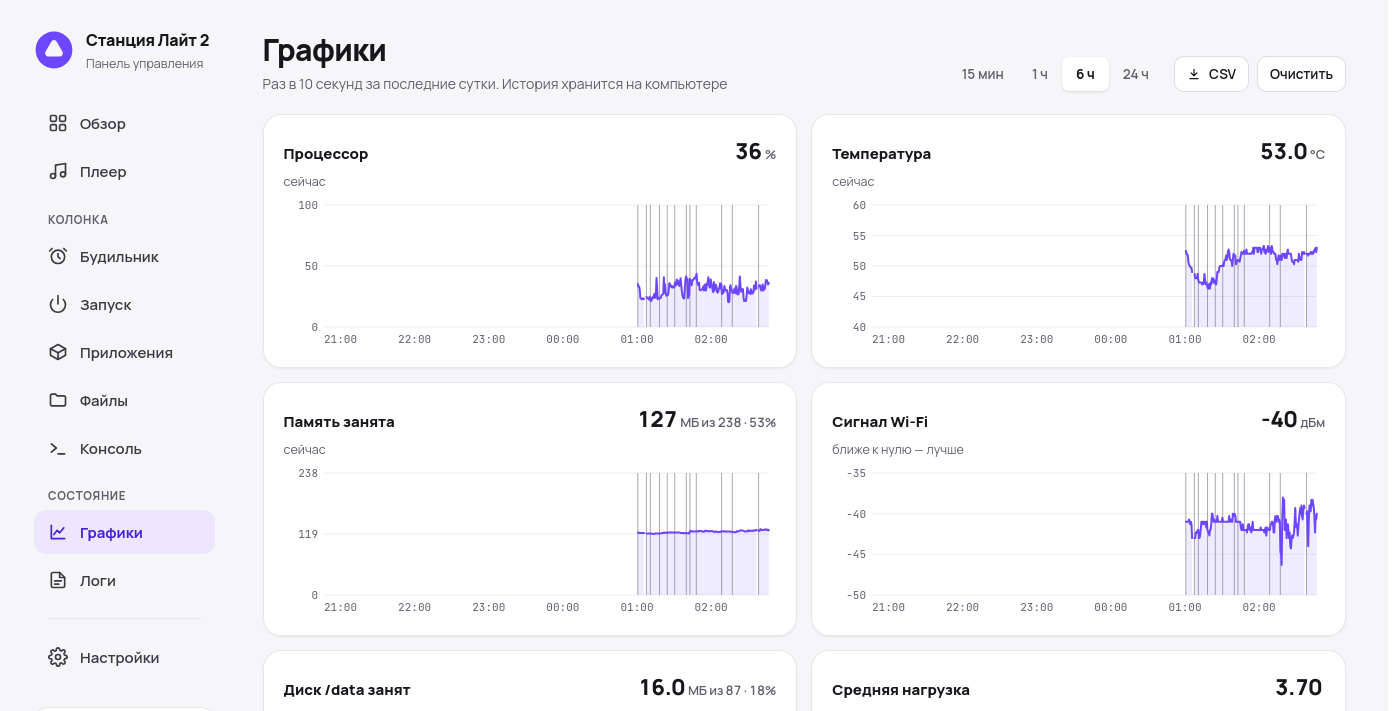
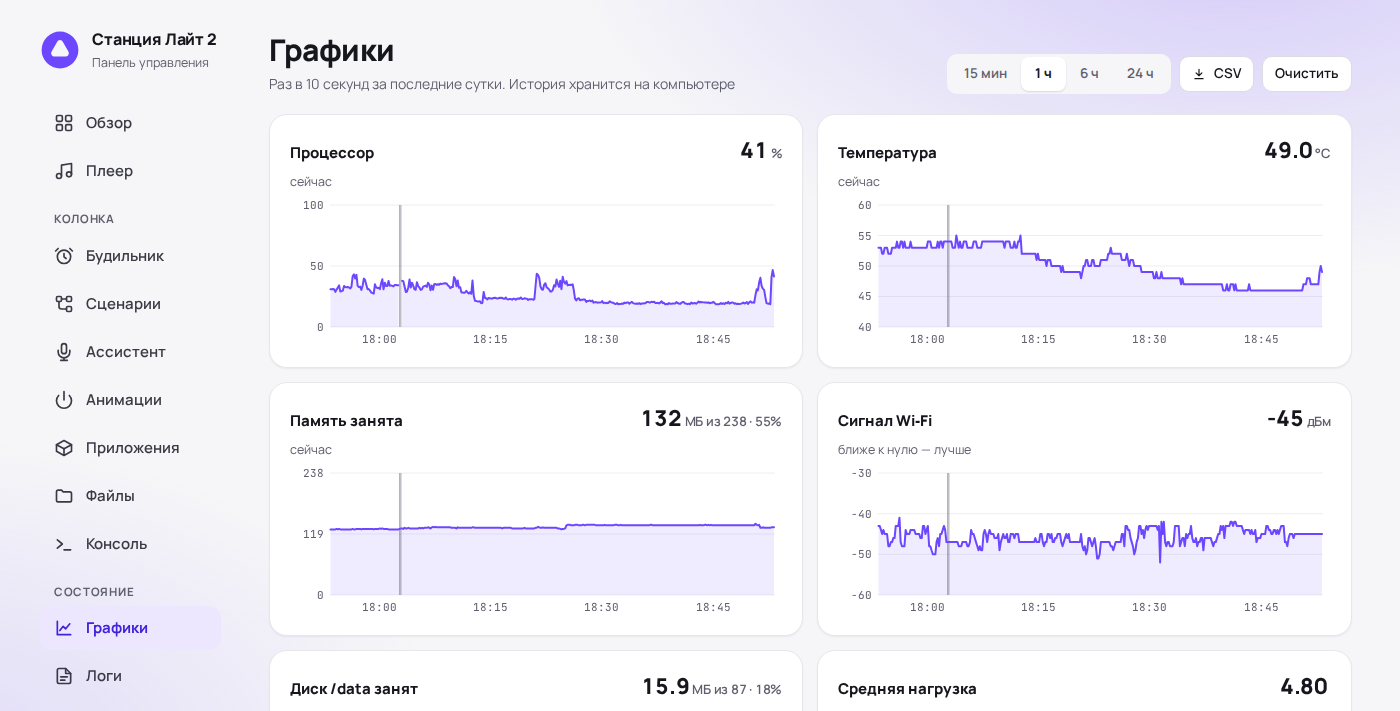
Новые скриншоты; мини-графики не раздувают мелкие колебания
Скриншоты сняты заново с живой колонки (приватный режим, без мини-плеера):
обзор в обеих темах, плеер, будильник, графики, консоль, анимации вместо
«Запуска», ассистент. Будильники и история вопросов ассистента на снимках —
примеры, а не настоящие.

Мини-графики: у каждого показателя наименьший размах (8 °C, 40 МБ, нагрузка 2…),
иначе колебание на полградуса рисовалось пиком во всю высоту плитки.

Claude-Session: https://claude.ai/code/session_016VWCNWDYjVHknPv2WXe4az

diff --git a/static/index.html b/static/index.html
@@ -1987,9 +1987,10 @@ let volDragging = false, lastOk = 0, status = null, ymLogin = '';
 // Четыре слота, в каждом — что выбрано в «Настройках» → «Оформление» (ov.tiles). Значения — из статуса (раз в 5 с),
 // процессор и место — из истории «Графиков» (её и так собирает сервер; обновляется с мини-графиками).
 const TILES = {
-  temp: { label: 'Температура', spark: 'temp' }, mem: { label: 'Память', spark: 'mem' },
-  load: { label: 'Нагрузка', spark: 'load' }, cpu: { label: 'Процессор', spark: 'cpu' },
-  uptime: { label: 'Аптайм' }, rssi: { label: 'Wi‑Fi', spark: 'rssi' }, disk: { label: 'Место в /data', spark: 'disk' },
+  // span — наименьший размах графика: колебание на полградуса не должно рисоваться пиком во всю высоту
+  temp: { label: 'Температура', spark: 'temp', span: 8 }, mem: { label: 'Память', spark: 'mem', span: 40 },
+  load: { label: 'Нагрузка', spark: 'load', span: 2 }, cpu: { label: 'Процессор', spark: 'cpu', span: 30 },
+  uptime: { label: 'Аптайм' }, rssi: { label: 'Wi‑Fi', spark: 'rssi', span: 12 }, disk: { label: 'Место в /data', spark: 'disk', span: 10 },
 };
 const TILE_DEFAULT = ['temp', 'mem', 'load', 'uptime'];
 const tileVals = {};
@@ -2053,10 +2054,11 @@ $('#set-tiles').onchange = () => {
 // ---------- мини-графики в плитках «Обзора» ----------
 // Та же история, что у «Графиков» (сервер собирает её сам), — последние 15 минут; раз в 30 с, пока виден «Обзор».
 let sparkTimer, sparkData = null;
-function sparkPath(vals, w, h) {
+function sparkPath(vals, w, h, span = 0) {
   const xs = vals.map((v, i) => [i, v]).filter(([, v]) => v != null);
   if (xs.length < 2) return null;
   let lo = Math.min(...xs.map(x => x[1])), hi = Math.max(...xs.map(x => x[1]));
+  if (hi - lo < span) { const mid = (hi + lo) / 2; lo = mid - span / 2; hi = mid + span / 2; }
   if (hi - lo < 1e-6) { lo -= 1; hi += 1; }
   const pad = (hi - lo) * .15, X = i => i / (vals.length - 1) * w, Y = v => h - 4 - (v - lo + pad) / (hi - lo + 2 * pad) * (h - 8);
   let line = '', area = '', run = [];
@@ -2091,7 +2093,7 @@ async function loadSparks() {
 function drawSparks(d) {
     $$('#stat-row > .stat').forEach(tile => { if (!tile.dataset.spark) tile.querySelector('.spark')?.remove(); });
     $$('.stat[data-spark]').forEach(tile => {
-      const p = sparkPath(d[tile.dataset.spark] || [], 300, 42);
+      const p = sparkPath(d[tile.dataset.spark] || [], 300, 42, TILES[tile.dataset.tile]?.span);
       let svg = tile.querySelector('.spark');
       if (!p) { svg?.remove(); return; }
       if (!svg) tile.insertAdjacentHTML('afterbegin', '<svg class="spark" viewBox="0 0 300 42" preserveAspectRatio="none" aria-hidden="true"><path class="a"/><path class="l"/></svg>'), svg = tile.querySelector('.spark');

diff --git a/README.md b/README.md
@@ -31,18 +31,20 @@
     <td align="center">Интерактивная root-консоль</td>
   </tr>
   <tr>
-    <td width="50%"><img src="docs/screenshots/boot.png" alt="Запуск"></td>
+    <td width="50%"><img src="docs/screenshots/animations.png" alt="Анимации"></td>
+    <td width="50%"><img src="docs/screenshots/assistant.png" alt="Ассистент"></td>
+  </tr>
+  <tr>
+    <td align="center">Редактор анимаций: часы по кадрам с яркостью сегментов, кольцо</td>
+    <td align="center">Свой голосовой ассистент на любой OpenAI-совместимой модели</td>
+  </tr>
+  <tr>
+    <td width="50%"><img src="docs/screenshots/scenes.png" alt="Сценарии"></td>
     <td width="50%"><img src="docs/screenshots/overview-dark.png" alt="Тёмная тема"></td>
   </tr>
   <tr>
-    <td align="center">Редактор заставки часов</td>
+    <td align="center">Сценарии на поле нод: условия, речь Алисы, вопрос ассистенту</td>
     <td align="center">Тёмная тема</td>
-  </tr>
-  <tr>
-    <td colspan="2"><img src="docs/screenshots/scenes.png" alt="Сценарии"></td>
-  </tr>
-  <tr>
-    <td colspan="2" align="center">Сценарии на поле нод: условие по дням недели, речь Алисы, вопрос своему ассистенту, плавная громкость</td>
   </tr>
 </table>
 
